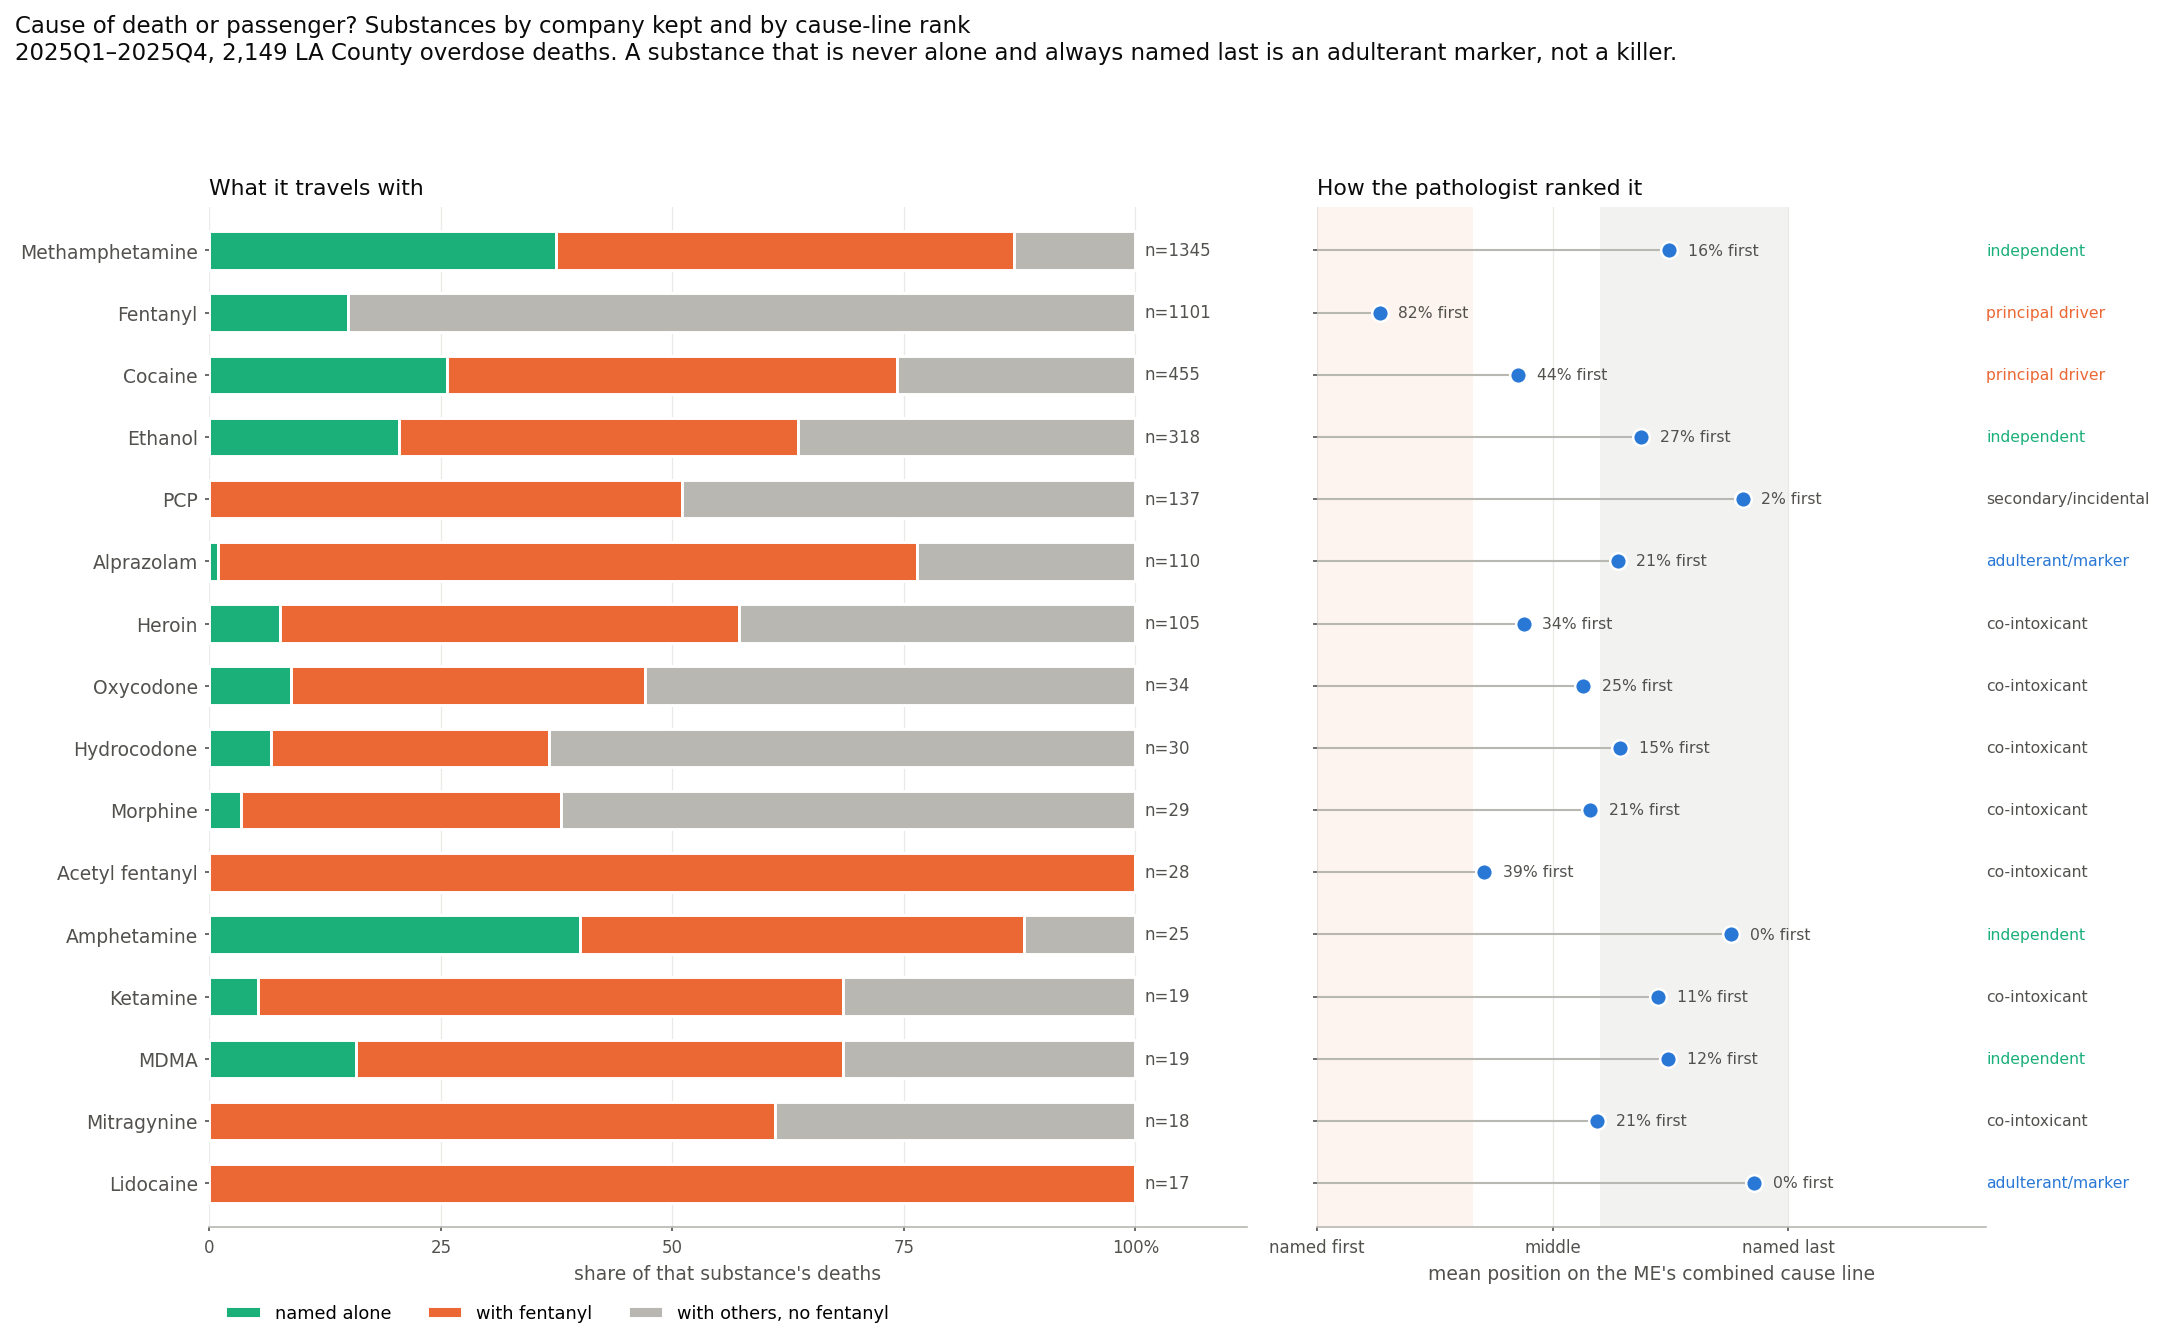
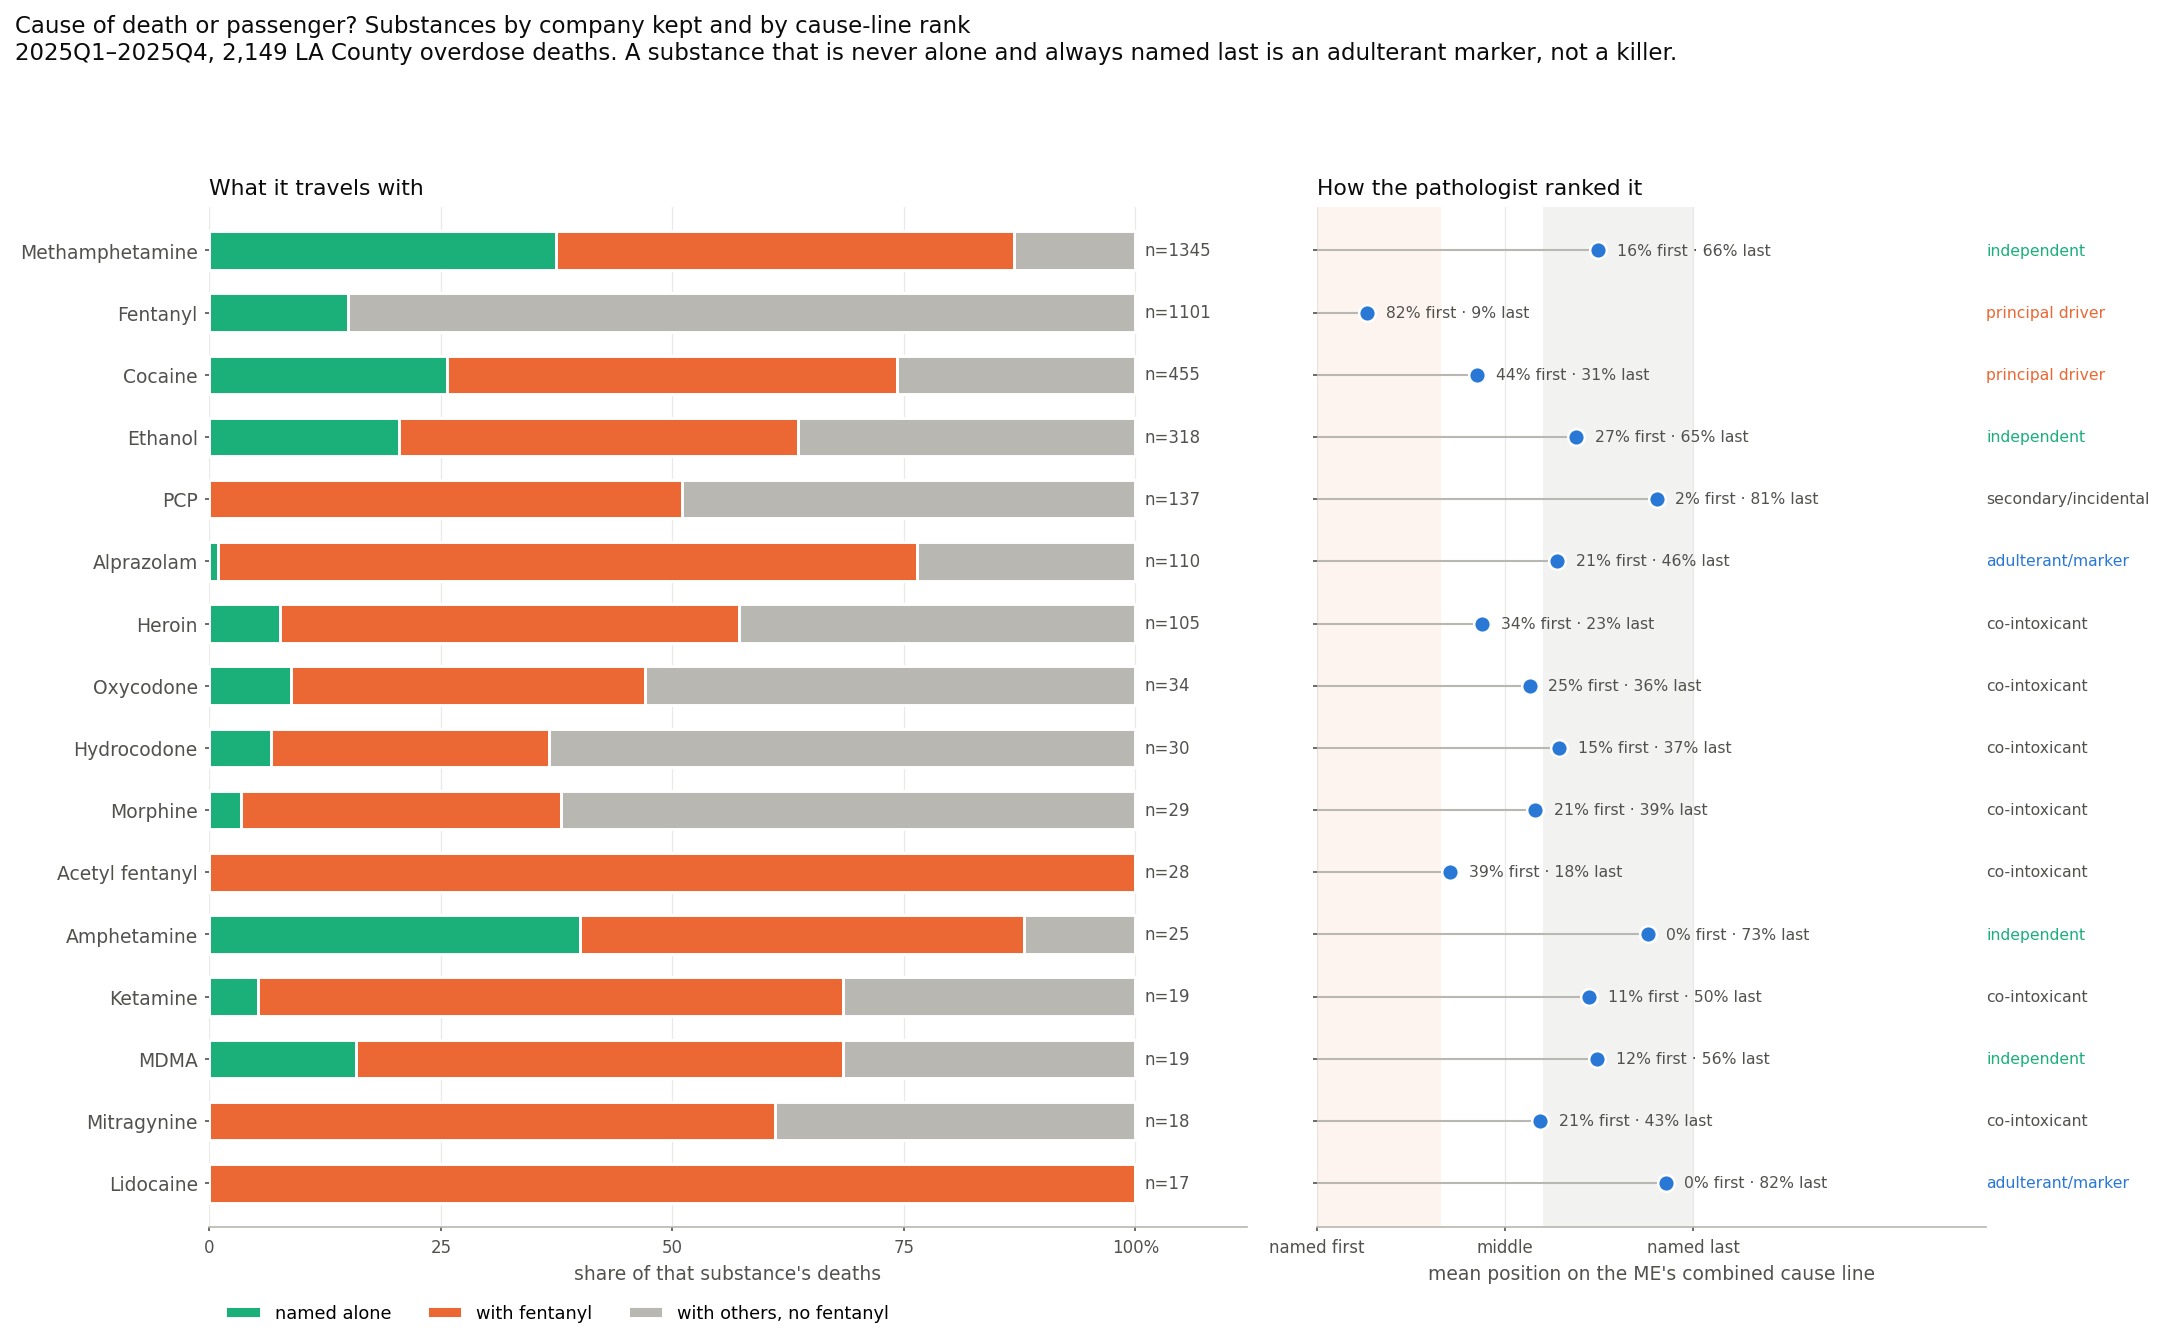
feat(polysubstance): add last_pct; document why cause-line position is normalized
mean_rank_pct is the right thing to rank on but hard to read. last_pct states
the same fact plainly: lidocaine is "0% first, 82% last" rather than "0.93".

Records why position is normalized to 0-1 instead of a mean ordinal (1..N).
Line length varies with substance type, so a raw mean position conflates
"named late" with "appears on a long line" -- a substance always named last
scores 2 on a two-substance line and 5 on a five-substance line. The bias runs
the wrong way here: adulterants co-occur with more substances, sit on longer
lines, and would be inflated by a raw ordinal precisely where the measure most
needs to be trustworthy.

Ranking all 26 substances both ways gives Spearman 0.79. Methamphetamine is
20th of 26 raw but 7th normalized (short lines, so position 2 of 2 is last);
para-fluorofentanyl is 6th raw but 15th normalized (long lines, so 2.83 is the
middle).

Costs of normalizing, now recorded so they are not re-derived: a two-substance
line can only score 0 or 1; single-substance lines are undefined and excluded;
it is an unweighted mean of ratios.

Also fixes docstring drift missed in the extraction -- `python -m
rosla_nowcast.emerging.*` usage examples, and stale position figures from the
earlier character-offset probe (0.28/0.79) replaced with the actual statistic.

Claude-Session: https://claude.ai/code/session_01Lu3h889te5nWq3zx6vTfsz

diff --git a/emerging/polysubstance.py b/emerging/polysubstance.py
@@ -18,12 +18,28 @@ almost always with one specific partner is a marker for that partner's supply.
 
 **Order within CauseA.** The ME writes one combined cause line —
 `EFFECTS OF FENTANYL, METHAMPHETAMINE, AND LIDOCAINE` — and orders it by
-clinical significance, not alphabetically. Fentanyl sits at median relative
-position 0.28 across 2,615 deaths; lidocaine at 0.79 across 34. So the ordinal
-rank of a substance within its own cause line is a usable proxy for how the
-pathologist weighted it. `lead_pct` is how often it is named first;
-`mean_rank_pct` is its average position on a 0 (always first) to 1 (always
-last) scale.
+clinical significance, not alphabetically. Over the last four settled quarters
+fentanyl is named first on 82% of multi-substance lines and last on 9%;
+lidocaine is named first on 0% and last on 82%. So the ordinal rank of a
+substance within its own cause line is a usable proxy for how the pathologist
+weighted it. `lead_pct` is how often it is named first, `last_pct` how often
+it is named last, and `mean_rank_pct` its average position on a 0 (always
+first) to 1 (always last) scale.
+
+**Why position is normalized rather than a mean ordinal.** Line length varies
+with substance type, and a raw mean position conflates "named late" with
+"appears on a long line" — a substance always named last scores 2 on a
+two-substance line and 5 on a five-substance line. That bias runs the wrong
+way for us: adulterants co-occur with more substances, so they sit on longer
+lines, so a raw ordinal would inflate for exactly the class we are trying to
+identify. Ranking all 26 substances both ways gives Spearman 0.79, and the
+disagreements are large — methamphetamine is 20th of 26 on the raw scale and
+7th normalized, because its lines are short so position 2 of 2 is *last*.
+
+`last_pct` is reported alongside because the normalized mean, while the right
+thing to rank on, is hard to read. "0% first, 82% last" states lidocaine's
+case more plainly than 0.93 does. Note that on a two-substance line the
+normalized score can only be 0 or 1, so short lines push it to the extremes.
 
 **A discriminator that was tried and does not work:** which *field* the
 substance was found in. CauseA vs CauseB vs CauseOther looks like it should
@@ -36,9 +52,9 @@ Verdicts are heuristic and stated as such: `principal driver`, `independent`,
 table, not a toxicological finding.
 
 Usage:
-    python -m rosla_nowcast.emerging.polysubstance profile
-    python -m rosla_nowcast.emerging.polysubstance profile --quarters 8 --top 30
-    python -m rosla_nowcast.emerging.polysubstance plot
+    python -m emerging.polysubstance profile
+    python -m emerging.polysubstance profile --quarters 8 --top 30
+    python -m emerging.polysubstance plot
 """
 
 from __future__ import annotations
@@ -184,7 +200,7 @@ def profile_table(
         # multi-substance denominator is what keeps them consistent —
         # methamphetamine led 49% of lines while averaging position 0.75 until
         # this was fixed.
-        leads, rank_pcts = 0, []
+        leads, lasts, rank_pcts = 0, 0, []
         n_ranked = 0
         for c in cases:
             seq = order.get(c, [])
@@ -194,6 +210,8 @@ def profile_table(
             idx = seq.index(sub)
             if idx == 0:
                 leads += 1
+            if idx == len(seq) - 1:
+                lasts += 1
             rank_pcts.append(idx / (len(seq) - 1))
 
         # sort_index() before value_counts() breaks ties by name rather than
@@ -213,6 +231,7 @@ def profile_table(
         alone_pct = 100 * alone / n
         fent_pct = 100 * partners.get("Fentanyl", 0) / n
         lead_pct = 100 * leads / n_ranked if n_ranked else np.nan
+        last_pct = 100 * lasts / n_ranked if n_ranked else np.nan
         mean_rank = float(np.mean(rank_pcts)) if rank_pcts else np.nan
 
         rows.append({
@@ -220,6 +239,7 @@ def profile_table(
             "alone_pct": alone_pct,
             "with_fentanyl_pct": fent_pct,
             "lead_pct": lead_pct,
+            "last_pct": last_pct,
             "mean_rank_pct": mean_rank,
             "n_ranked": n_ranked,
             "verdict": _verdict(alone_pct, lead_pct, mean_rank, fent_pct),
@@ -254,7 +274,7 @@ def profile(
     typer.echo(f"window {q(qs[0])}–{q(qs[-1])}: {len(sets):,} deaths naming "
                f"at least one substance")
     cols = ["n_cases", "alone_pct", "with_fentanyl_pct", "lead_pct",
-            "mean_rank_pct", "verdict"]
+            "last_pct", "mean_rank_pct", "verdict"]
     typer.echo("\n" + prof.head(top)[cols].to_string(
         float_format=lambda v: f"{v:.2f}"))
     typer.echo(f"\nwrote {out_dir / PROFILE_PATH.name}")
@@ -333,9 +353,11 @@ def plot(
     ax2.scatter(r[ok], y[ok], s=64, c=BLUE, edgecolors="white", linewidths=1.2,
                 zorder=4)
     for i in np.where(ok)[0]:
-        ax2.annotate(f"{prof['lead_pct'].iloc[i]:.0f}% first",
-                     (r[i], y[i]), textcoords="offset points", xytext=(9, 0),
-                     fontsize=7.5, color=INK_2, va="center")
+        ax2.annotate(
+            f"{prof['lead_pct'].iloc[i]:.0f}% first · "
+            f"{prof['last_pct'].iloc[i]:.0f}% last",
+            (r[i], y[i]), textcoords="offset points", xytext=(9, 0),
+            fontsize=7.5, color=INK_2, va="center")
     # Verdict in a fixed right-hand column, so it reads as a label on the row
     # rather than as another value on the position scale.
     vcolor = {"principal driver": ORANGE, "independent": AQUA,
@@ -343,11 +365,11 @@ def plot(
               "co-intoxicant": INK_2}
     for i, sub in enumerate(prof.index):
         v = prof.loc[sub, "verdict"]
-        ax2.annotate(v, (1.42, y[i]), fontsize=7.5, color=vcolor[v],
+        ax2.annotate(v, (1.78, y[i]), fontsize=7.5, color=vcolor[v],
                      va="center", annotation_clip=False)
     ax2.set_yticks(y, [""] * len(prof))
     ax2.set_ylim(-0.7, len(prof) - 0.3)
-    ax2.set_xlim(0, 1.42)
+    ax2.set_xlim(0, 1.78)
     ax2.set_xticks([0, 0.5, 1.0],
                    ["named first", "middle", "named last"],
                    fontsize=8, color=INK_2)

diff --git a/emerging/lexicon.py b/emerging/lexicon.py
@@ -28,9 +28,9 @@ aliases of <=5 characters (`FA`, `DOC`, `DOB`, `AMB`, `CBC`) that would collide
 with ordinary narrative words.
 
 Usage:
-    python -m rosla_nowcast.emerging.lexicon build
-    python -m rosla_nowcast.emerging.lexicon inspect fentanyl
-    python -m rosla_nowcast.emerging.lexicon inspect --alias METAMPHETAMINE
+    python -m emerging.lexicon build
+    python -m emerging.lexicon inspect fentanyl
+    python -m emerging.lexicon inspect --alias METAMPHETAMINE
 """
 
 from __future__ import annotations
@@ -461,7 +461,7 @@ def load_lexicon(
     if not lexicon_path.exists() or not meta_path.exists():
         raise FileNotFoundError(
             f"{lexicon_path} / {meta_path} not found — run "
-            "`python -m rosla_nowcast.emerging.lexicon build` first."
+            "`python -m emerging.lexicon build` first."
         )
     al = pd.read_parquet(lexicon_path)
     meta = pd.read_parquet(meta_path)

diff --git a/emerging/trends.py b/emerging/trends.py
@@ -54,10 +54,10 @@ Four figures, written to results/figures/:
     known_emergences.png   the backtest set
 
 Usage:
-    python -m rosla_nowcast.emerging.trends rank
-    python -m rosla_nowcast.emerging.trends rank --recent-quarters 8 --top 30
-    python -m rosla_nowcast.emerging.trends backtest
-    python -m rosla_nowcast.emerging.trends plot
+    python -m emerging.trends rank
+    python -m emerging.trends rank --recent-quarters 8 --top 30
+    python -m emerging.trends backtest
+    python -m emerging.trends plot
 """
 
 from __future__ import annotations

diff --git a/emerging/geo.py b/emerging/geo.py
@@ -63,9 +63,9 @@ Power is thin and the output says so. At n=10 this test detects only extreme
 localization; a non-significant result is not evidence of dispersion.
 
 Usage:
-    python -m rosla_nowcast.emerging.geo cluster
-    python -m rosla_nowcast.emerging.geo cluster --since 2022-01-01 --min-n 6
-    python -m rosla_nowcast.emerging.geo plot
+    python -m emerging.geo cluster
+    python -m emerging.geo cluster --since 2022-01-01 --min-n 6
+    python -m emerging.geo plot
 """
 
 from __future__ import annotations

diff --git a/emerging/extract.py b/emerging/extract.py
@@ -26,9 +26,9 @@ Three commands:
     validate  -- precision/recall of the extraction against the 8 coded flags
 
 Usage:
-    python -m rosla_nowcast.emerging.extract extract
-    python -m rosla_nowcast.emerging.extract unmatched --top 80
-    python -m rosla_nowcast.emerging.extract validate
+    python -m emerging.extract extract
+    python -m emerging.extract unmatched --top 80
+    python -m emerging.extract validate
 """
 
 from __future__ import annotations

diff --git a/README.md b/README.md
@@ -342,23 +342,42 @@ anyone died *of* the substance. Two independent discriminators, over the last
 - **Position on the cause line.** The ME writes one combined string —
   `EFFECTS OF FENTANYL, METHAMPHETAMINE, AND LIDOCAINE` — ordered by clinical
   significance, not alphabetically. `lead_pct` is how often the substance is
-  named first; `mean_rank_pct` runs 0 (always first) to 1 (always last). Both
-  are computed only on multi-substance lines, so a solo mention cannot count
-  as "named first".
+  named first, `last_pct` how often it is named last, and `mean_rank_pct` its
+  average position from 0 (always first) to 1 (always last). All three are
+  computed only on multi-substance lines, so a solo mention cannot count as
+  "named first".
 
-| | n (2025) | alone | with fentanyl | named first | mean rank | verdict |
-|---|---|---|---|---|---|---|
-| Fentanyl | 1101 | 15% | — | 82% | 0.13 | principal driver |
-| Cocaine | 455 | 26% | 49% | 44% | 0.43 | principal driver |
-| Methamphetamine | 1345 | 37% | 49% | 16% | 0.75 | independent |
-| Alprazolam | 110 | 1% | 75% | 21% | 0.64 | adulterant/marker |
-| PCP | 137 | 0% | 51% | 2% | 0.90 | secondary/incidental |
-| **Lidocaine** | **17** | **0%** | **100%** | **0%** | **0.93** | **adulterant/marker** |
+| | n (2025) | alone | with fentanyl | 1st | last | mean rank | verdict |
+|---|---|---|---|---|---|---|---|
+| Fentanyl | 1101 | 15% | — | 82% | 9% | 0.13 | principal driver |
+| Cocaine | 455 | 26% | 49% | 44% | 31% | 0.43 | principal driver |
+| Methamphetamine | 1345 | 37% | 49% | 16% | 66% | 0.75 | independent |
+| Alprazolam | 110 | 1% | 75% | 21% | 46% | 0.64 | adulterant/marker |
+| PCP | 137 | 0% | 51% | 2% | 81% | 0.90 | secondary/incidental |
+| **Lidocaine** | **17** | **0%** | **100%** | **0%** | **82%** | **0.93** | **adulterant/marker** |
 
 Lidocaine is a cutting agent. Every one of its 17 recent deaths names
-fentanyl, none names it first, and it sits at 0.93 on the cause line. The
-right headline is "the fentanyl supply is being cut differently", not
-"lidocaine is killing people".
+fentanyl, and the ME writes it **last on the cause line in 14 of 17 and first
+in none** — the mirror image of fentanyl. The right headline is "the fentanyl
+supply is being cut differently", not "lidocaine is killing people".
+
+### Why position is normalized rather than a mean ordinal
+
+A raw mean position (1…N) conflates "named late" with "appears on a long
+line": a substance always named last scores 2 on a two-substance line and 5 on
+a five-substance line. The bias runs the wrong way here — adulterants
+co-occur with more substances and so sit on longer lines, inflating a raw
+ordinal exactly for the class we are trying to identify.
+
+Ranking all 26 substances both ways gives **Spearman 0.79**. Methamphetamine
+is 20th of 26 raw but 7th normalized (short lines, so position 2 of 2 is
+*last*); para-fluorofentanyl is 6th raw but 15th normalized (long lines, so
+2.83 is the middle).
+
+The cost: on a two-substance line the score can only be 0 or 1, so short lines
+push toward the extremes; single-substance lines are undefined and excluded;
+and it is an unweighted mean of ratios. `last_pct` is reported alongside
+because the normalized mean is the right thing to rank on but harder to read.
 
 *A discriminator that was tried and does not work:* which field the substance
 was found in. Lidocaine is 100% `CauseA`, identical to fentanyl — the ME puts

diff --git a/RESEARCH_LOG.md b/RESEARCH_LOG.md
@@ -31,10 +31,12 @@ substances rising in LA County overdose deaths.
 
 **The four findings that changed what we can claim:**
 
-1. **Lidocaine is an adulterant, not a killer.** 17 of 17 recent deaths name
-   fentanyl, 0 name it alone, and it sits at 0.93 on the ME's cause line
-   (fentanyl: 0.13). The correct headline is "the fentanyl supply is being cut
-   differently".
+1. **Lidocaine is an adulterant, not a killer.** All 17 recent deaths name
+   fentanyl and none name it alone. On the ME's combined cause line — which is
+   ordered by clinical significance, not alphabetically — lidocaine is written
+   **last in 14 of 17 deaths (82%) and first in none**. Fentanyl is the
+   mirror image: first on 82% of multi-substance lines, last on 9%. The correct
+   headline is "the fentanyl supply is being cut differently".
 2. **Share growth ≠ death growth.** Total OD deaths fell 18% between windows,
    so a flat-count substance gains ×1.22 share for free. Cocaine posts EB05
    1.06 with `count_ratio` 0.90 — *a growing share of a shrinking total*.
@@ -136,8 +138,30 @@ Six items from a presentation. All six built.
 **Polysubstance / principal cause** (`polysubstance.py`, new). Two independent
 discriminators. Co-occurrence (`alone_pct`, `with_fentanyl_pct`) and — the
 better one — **position on the ME's combined cause line**, which is ordered by
-clinical significance, not alphabetically. Fentanyl sits at mean relative
-position 0.13, lidocaine at 0.93.
+clinical significance, not alphabetically. Reported three ways: `lead_pct`
+(named first), `last_pct` (named last), and `mean_rank_pct`, the average
+position on a 0 = always first to 1 = always last scale. Fentanyl 0.13,
+lidocaine 0.93.
+
+*Why the position is normalized rather than a mean ordinal (1…N).* Line length
+varies with substance type, and a raw mean position conflates "named late" with
+"appears on a long line" — a substance always named last scores 2 on a
+two-substance line and 5 on a five-substance line. The bias runs the wrong way
+for us: adulterants co-occur with more substances, sit on longer lines, and so
+would be inflated by a raw ordinal precisely where we most need the measure to
+be trustworthy. Ranking all 26 substances both ways gives **Spearman 0.79**,
+with large disagreements — methamphetamine is 20th of 26 raw but 7th
+normalized (short lines, so position 2 of 2 is *last*), and
+para-fluorofentanyl is 6th raw but 15th normalized (long lines, so position
+2.83 is the middle).
+
+*Cost of normalizing, recorded so nobody re-derives it:* on a two-substance
+line the score can only be 0 or 1, so short lines push toward the extremes;
+single-substance lines are undefined (0/0) and excluded from both `lead_pct`
+and `mean_rank_pct`; and it is an unweighted mean of ratios, so a 2-substance
+line counts as much as a 5-substance one. `last_pct` was added alongside
+because the normalized mean is the right thing to *rank* on but hard to read —
+"0% first, 82% last" states lidocaine's case more plainly than 0.93 does.
 
 *Tried and rejected:* which **field** the substance appeared in. Lidocaine is
 100% `CauseA`, identical to fentanyl, because the ME puts every substance on
